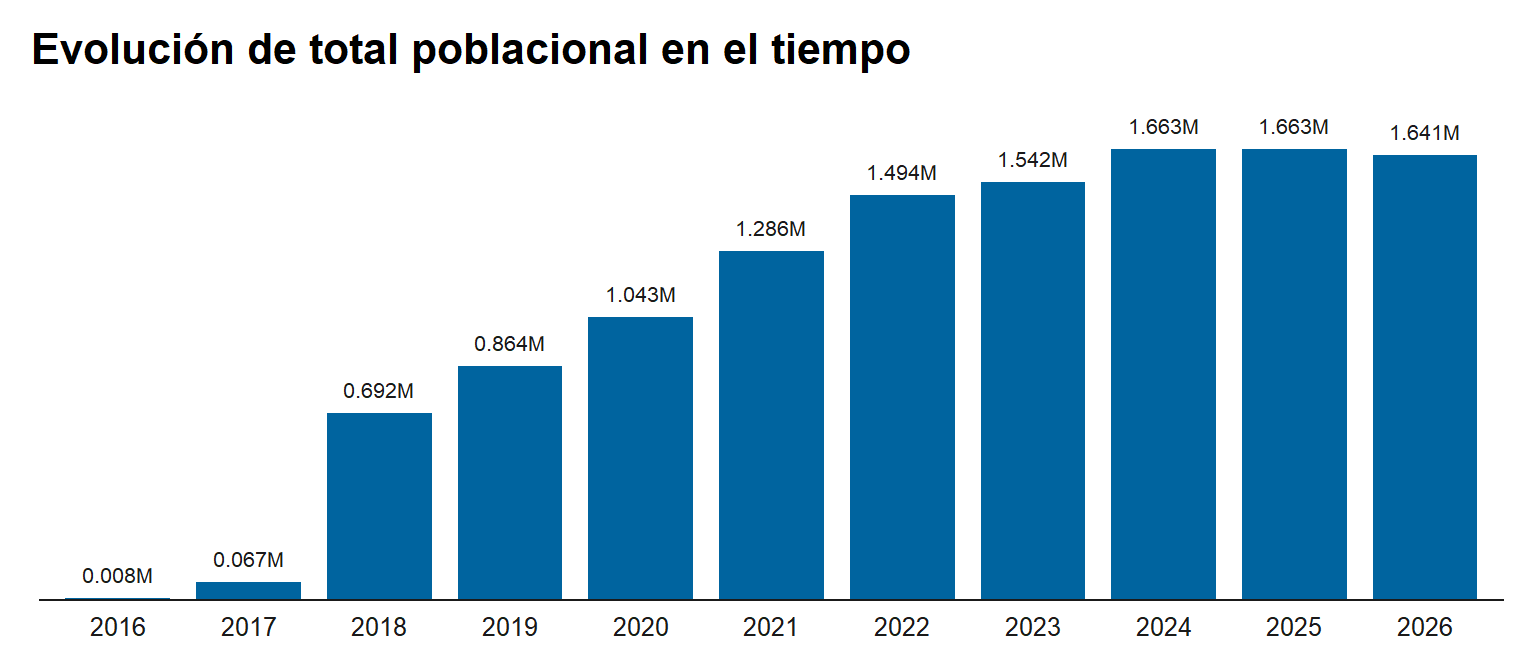
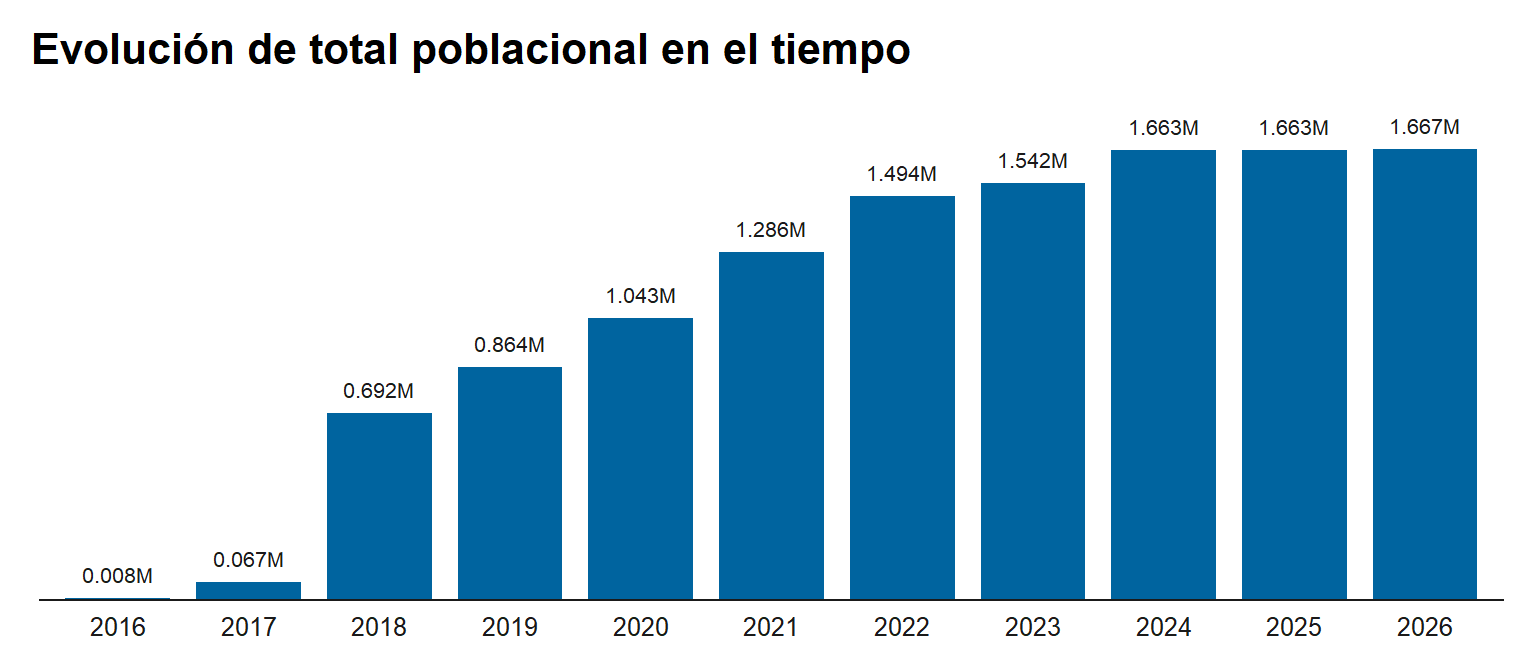
Proyecciones revisadas a escenario 1

diff --git a/Proyecciones RMRP 2026.html b/Proyecciones RMRP 2026.html
@@ -164,23 +164,23 @@ ul.task-list li input[type="checkbox"] {
 <p>Considerando estos elementos, el equipo de Manejo de Información propone las proyecciones siguientes:</p>
 <div class="column" style="width:45%;">
 <center>
-<strong>-60</strong> <br> Saldo proyectado <br> (-21,900 anual)
+<strong>22</strong> <br> Saldo proyectado <br> (8,030 anual)
 </center>
 </div>
 <div class="column" style="width:45%;">
 <center>
-<strong>1,641,111</strong> <br> Stock 2026 <br>
+<strong>1,670,846</strong> <br> Stock 2026 <br>
 </center>
 </div>
-<p>Esta proyección utiliza el saldo promedio de ingresos y salidas observados entre 2024-07-30 a 2025-06 y presupone un stock constante en 2025 de 1.66M de personas venezolanas. Los flujos bajo esta proyección serían los siguientes:</p>
+<p>Esta proyección utiliza el saldo promedio de ingresos y salidas observados entre 2024-12-31 a 2025-06 y presupone un stock constante en 2025 de 1.66M de personas venezolanas. Los flujos bajo esta proyección serían los siguientes:</p>
 <div class="column" style="width:49%;">
 <center>
-<strong>563</strong> <br> Entradas diarias <br> (205,495 anual)
+<strong>574</strong> <br> Entradas diarias <br> (209,510 anual)
 </center>
 </div>
 <div class="column" style="width:49%;">
 <center>
-<strong>622</strong> <br> Salidas diarias <br> (227,030 anual)
+<strong>552</strong> <br> Salidas diarias <br> (201,480 anual)
 </center>
 </div>
 <div class="cell">
@@ -196,33 +196,33 @@ ul.task-list li input[type="checkbox"] {
 <tbody>
 <tr class="odd">
 <td style="text-align: right;">Tumbes</td>
-<td style="text-align: right;">90,447</td>
-<td style="text-align: right;">97,504</td>
+<td style="text-align: right;">93,720</td>
+<td style="text-align: right;">78,280</td>
 </tr>
 <tr class="even">
 <td style="text-align: right;">Tacna</td>
-<td style="text-align: right;">57,427</td>
-<td style="text-align: right;">40,357</td>
+<td style="text-align: right;">55,431</td>
+<td style="text-align: right;">36,330</td>
 </tr>
 <tr class="odd">
 <td style="text-align: right;">Aeropuerto</td>
-<td style="text-align: right;">31,268</td>
-<td style="text-align: right;">41,002</td>
+<td style="text-align: right;">32,047</td>
+<td style="text-align: right;">36,196</td>
 </tr>
 <tr class="even">
 <td style="text-align: right;">Puno</td>
-<td style="text-align: right;">22,594</td>
-<td style="text-align: right;">38,605</td>
+<td style="text-align: right;">23,263</td>
+<td style="text-align: right;">38,106</td>
 </tr>
 <tr class="odd">
 <td style="text-align: right;">MdD</td>
-<td style="text-align: right;">2,920</td>
-<td style="text-align: right;">7,969</td>
+<td style="text-align: right;">4,052</td>
+<td style="text-align: right;">10,366</td>
 </tr>
 <tr class="even">
 <td style="text-align: right;">Otros</td>
-<td style="text-align: right;">754</td>
-<td style="text-align: right;">1,752</td>
+<td style="text-align: right;">912</td>
+<td style="text-align: right;">2,190</td>
 </tr>
 </tbody>
 </table>
